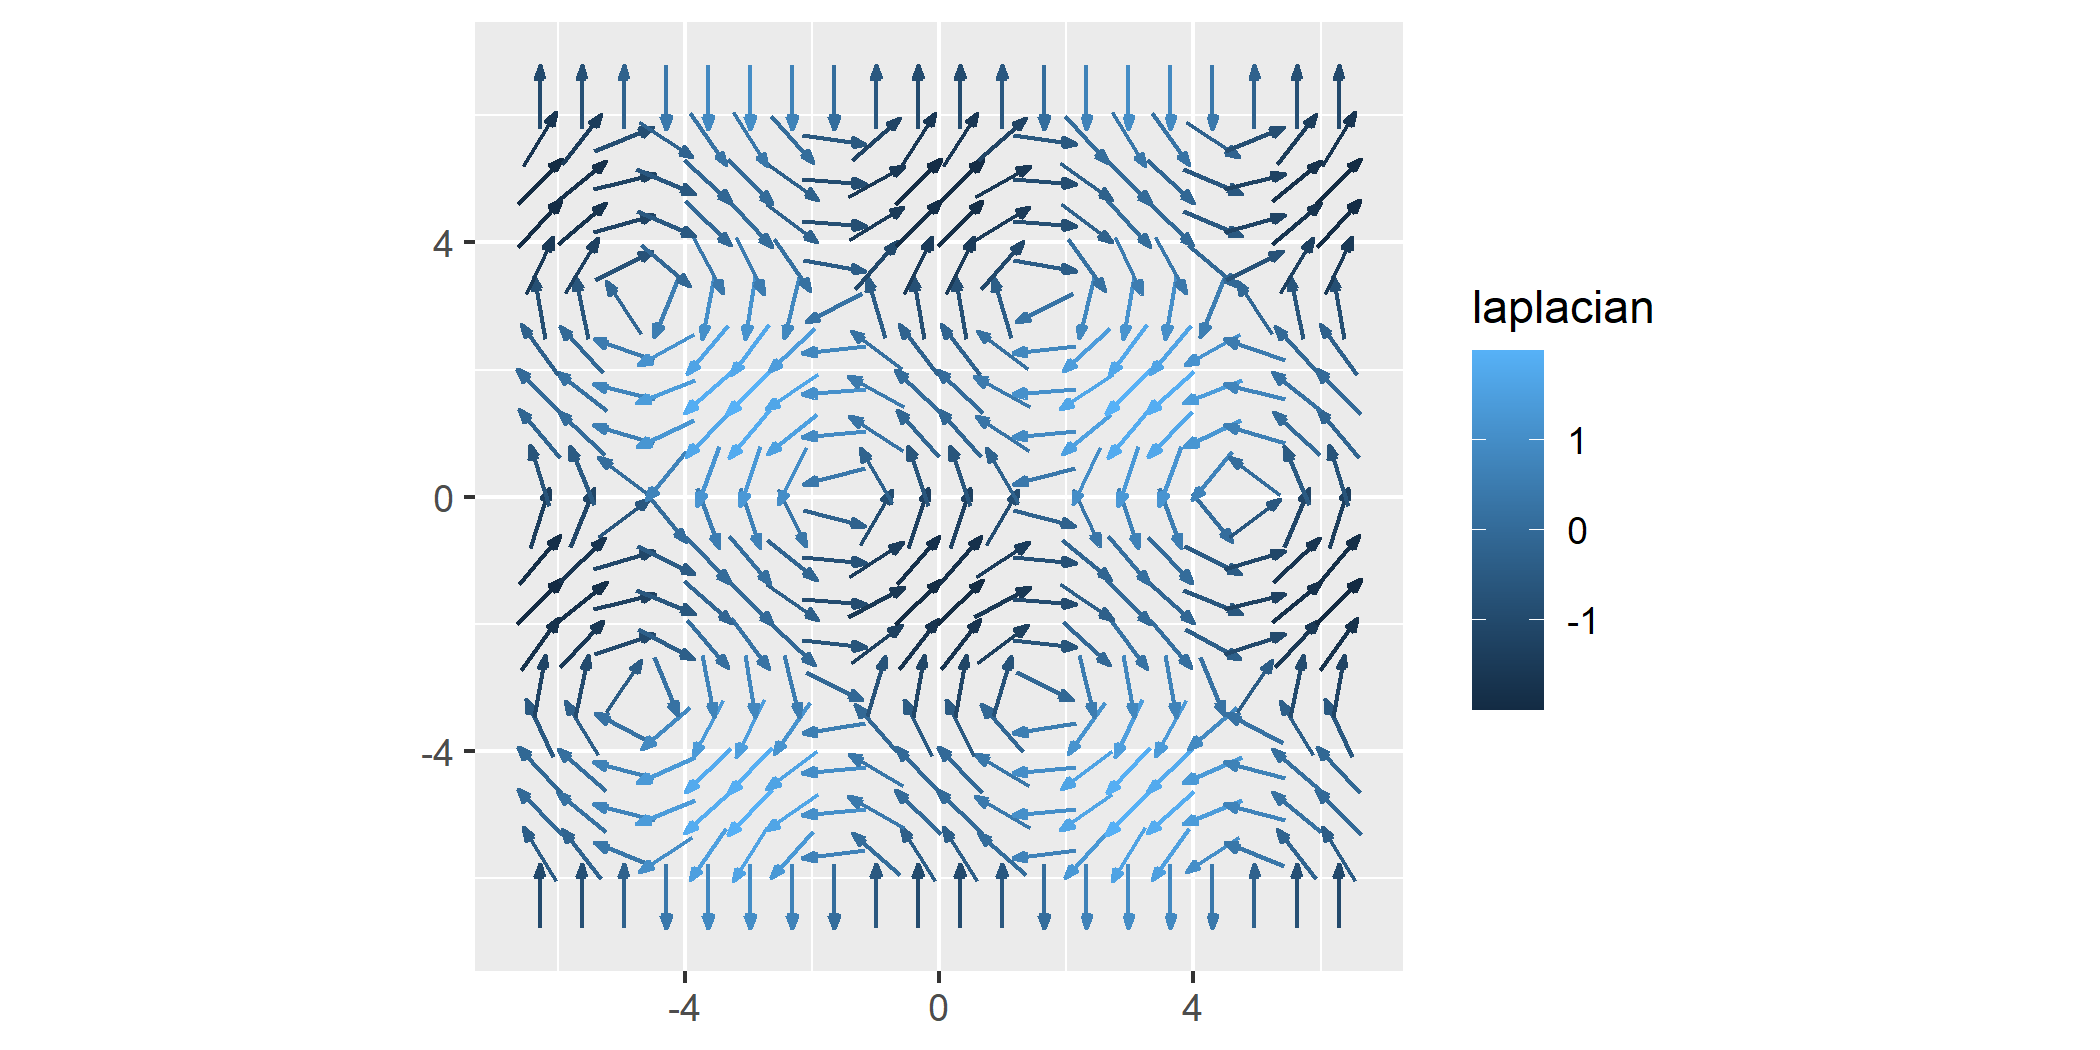
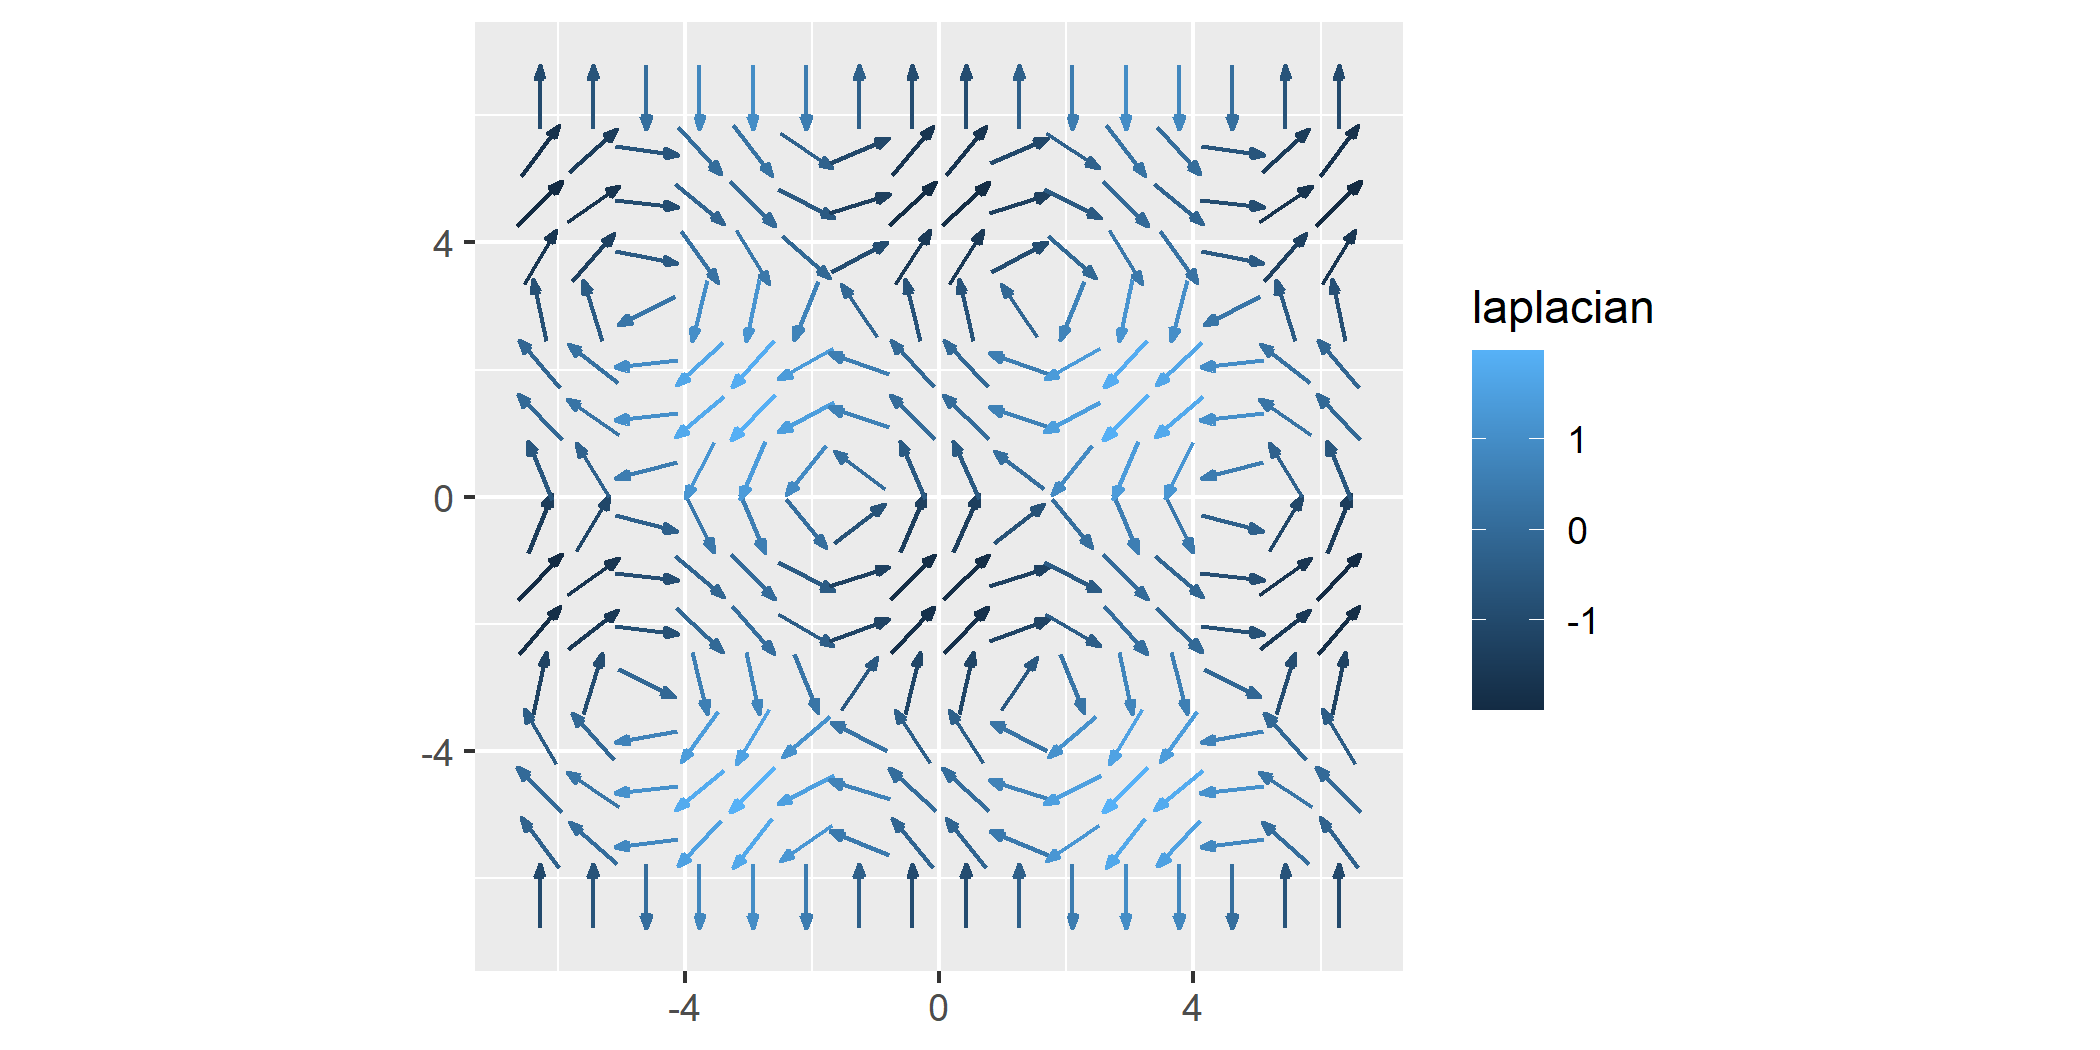
change to biscale in complex plot

Changed region(s): [[0.2476, 0.061, 0.65, 0.8838]]

diff --git a/README.md b/README.md
@@ -11,6 +11,7 @@ numbers, and soon dual numbers and more.
 ``` r
 library("ggvfields")
 #> Loading required package: ggplot2
+#> Warning: package 'ggplot2' was built under R version 4.3.3
 options(ggplot2.continuous.colur="viridis")
 ```
 
@@ -142,7 +143,7 @@ g <- function(v) {
 
 ggplot() +
   geom_vector_field(
-    aes(color = after_stat(laplacian)), n = 20,
+    aes(color = after_stat(laplacian)), n = 16, 
     fun = g, xlim = c(-2*pi, 2*pi), ylim = c(-2*pi, 2*pi)
   ) +
   coord_fixed()
@@ -202,10 +203,50 @@ f <- function(z) (z^2 + 1) / (z^2 - 1)
 # create a ggplot with the complex vector field layer
 ggplot() +
   geom_complex_function(fun = f, relim = c(-2, 2), imlim = c(-2, 2), n = 100) +
-  coord_fixed()
+  labs(x = "Real", y = "Imaginary") +
+  coord_fixed() 
 ```
 
 <img src="man/figures/README-unnamed-chunk-8-1.png" width="100%" />
+
+We can enhance this plot with a little help from biscale.
+
+Using biscale, we can apply a bivariate color scale to the plot, which
+allows us to represent two variables—angle (direction) and magnitude
+(intensity)—simultaneously. This makes it easier to visualize how these
+properties change across the field.
+
+``` r
+library(biscale)
+#> Warning: package 'biscale' was built under R version 4.3.3
+library(cowplot)
+
+plot <-
+  ggplot() +
+  geom_complex_function(aes(fill = after_stat(bi_class)),
+    fun = f, relim = c(-2, 2), imlim = c(-2, 2), n = 100
+    ) +
+    bi_scale_fill(pal = "DkBlue") +
+    labs(
+      title = "",
+      x = "Real (Re)",
+      y = "Imaginary (Im)"
+    ) +
+    bi_theme(base_size = 16) +
+    theme(legend.position = "none") +
+  coord_fixed() 
+  
+legend <- bi_legend(pal = "DkBlue",
+                    xlab = "Angle",
+                    ylab = "Magnitude",
+                    size = 6)
+
+ggdraw() +
+  draw_plot(plot, 0, 0, .8, 1) +  # Main plot without legend
+  draw_plot(legend, x = .55, y = .6, width = .3, height = 0.3)
+```
+
+<img src="man/figures/README-unnamed-chunk-9-1.png" width="100%" />
 
 ## License
 
